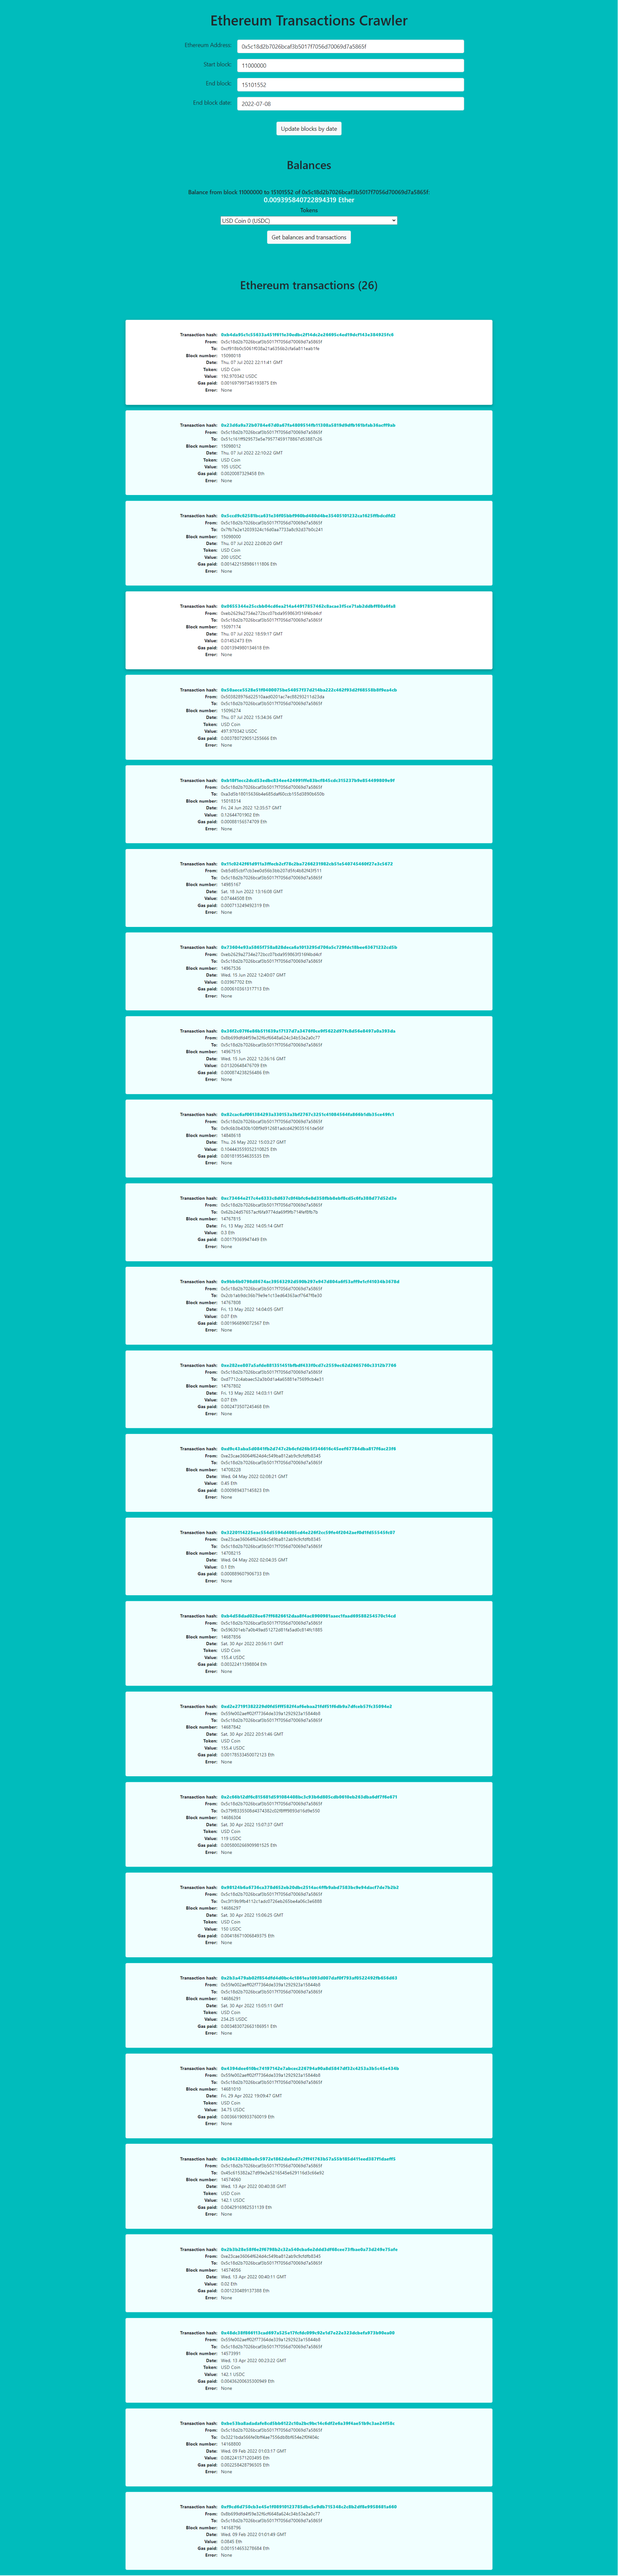
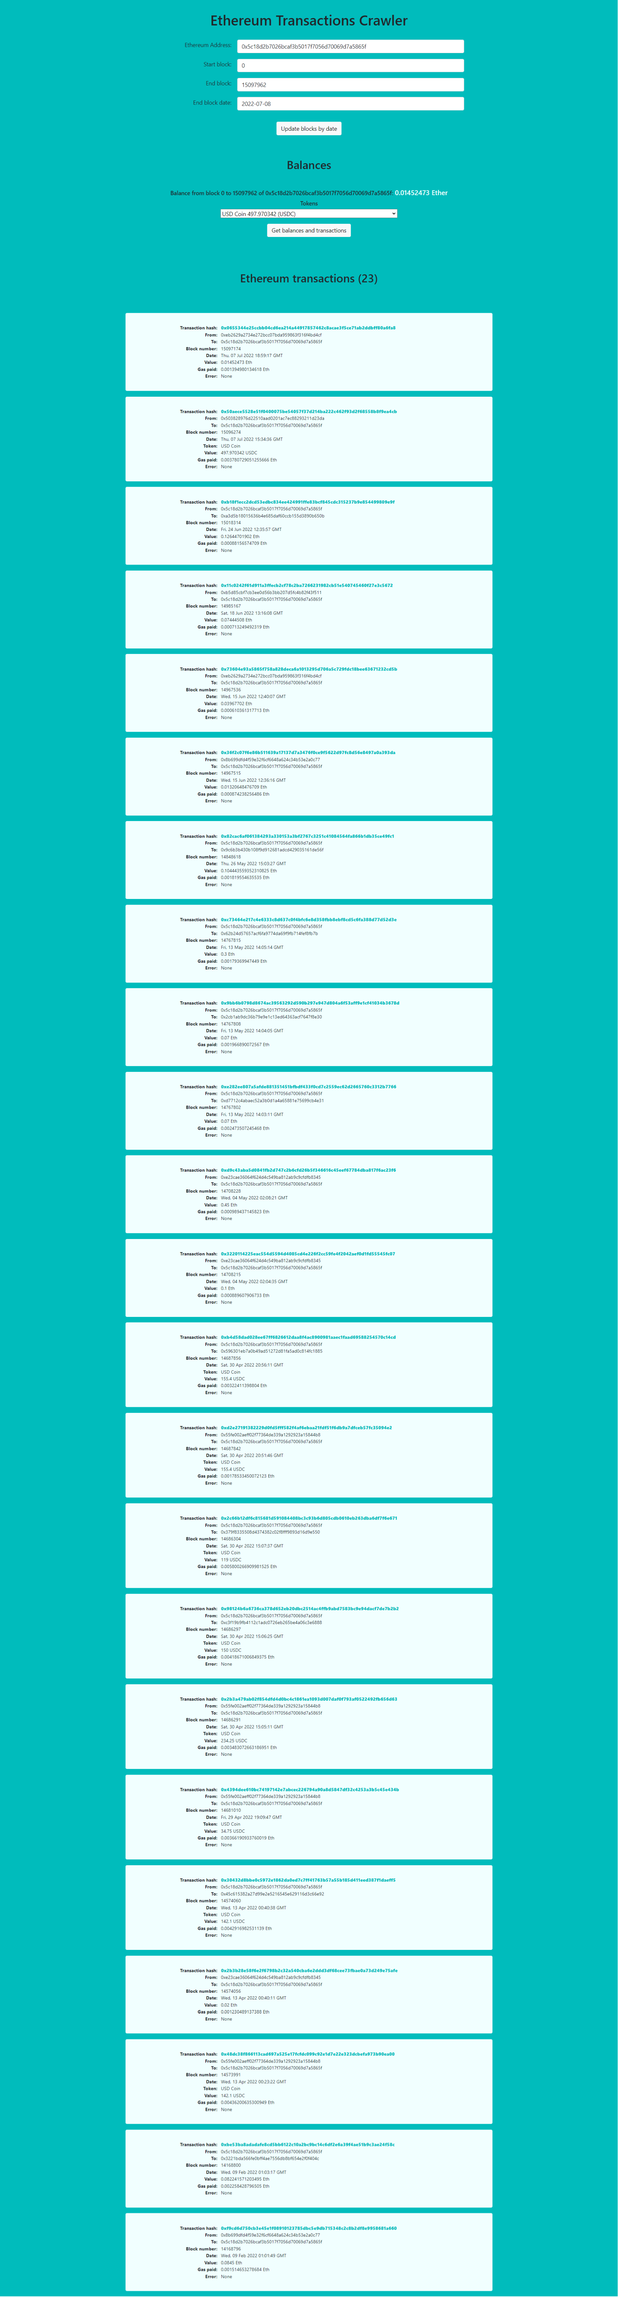
Add screens to doc.

Changed region(s): [[0.1857, 0.0, 0.8046, 1.0]]

diff --git a/README.md b/README.md
@@ -2,6 +2,7 @@
 
 I used [etherscan](https://etherscan.io/) which is a blockchain explorer to avoid indexing by each block.
 It would be a struggle to write this application only with an Ethereum node.
+Pagination from etherscan is not implemented in this version so there is a 10000 limit per transaction data.
 
 This project was bootstrapped with [Create React App](https://github.com/facebook/create-react-app).
 
@@ -13,7 +14,7 @@ npm start
 
 Later open [http://localhost:3000](http://localhost:3000) to view it in your browser.
 In application is built successfully we should see page like this:
-TODO: add screen
+![Page](./doc/page.png)
 
 Available scripts commands:
 `npm start`
@@ -32,15 +33,18 @@ When page will load the first API call we will make is to get last block number 
 TODO: Write how button works
 
 ## Example usage
-TODO: example usage with screen
+![Page](./doc/page-23tx.png)
+![Page](./doc/page-etherscan.png)
+![Page](./doc/page-26tx.png)
+![Page](./doc/usdc.png)
 
 ## TODO
 
 TODO:
 - Add tests.
-- Any change in inputs should clear results?
 - Test BN library, I don't know why but for this wallet 0x9f4a83475ef57f70c1a7754c3b381479626900ea I found that some tokens are not calculated properly. Check tokenValueAsString again.
 
 TODO for future:
 - Add paging in while loop for etherscan API call to exceed 10000 row limit.
 - Add other Token standards (Erc721 for uniswap v3 and others)
+- Improve error handling and add some messages in UI.
